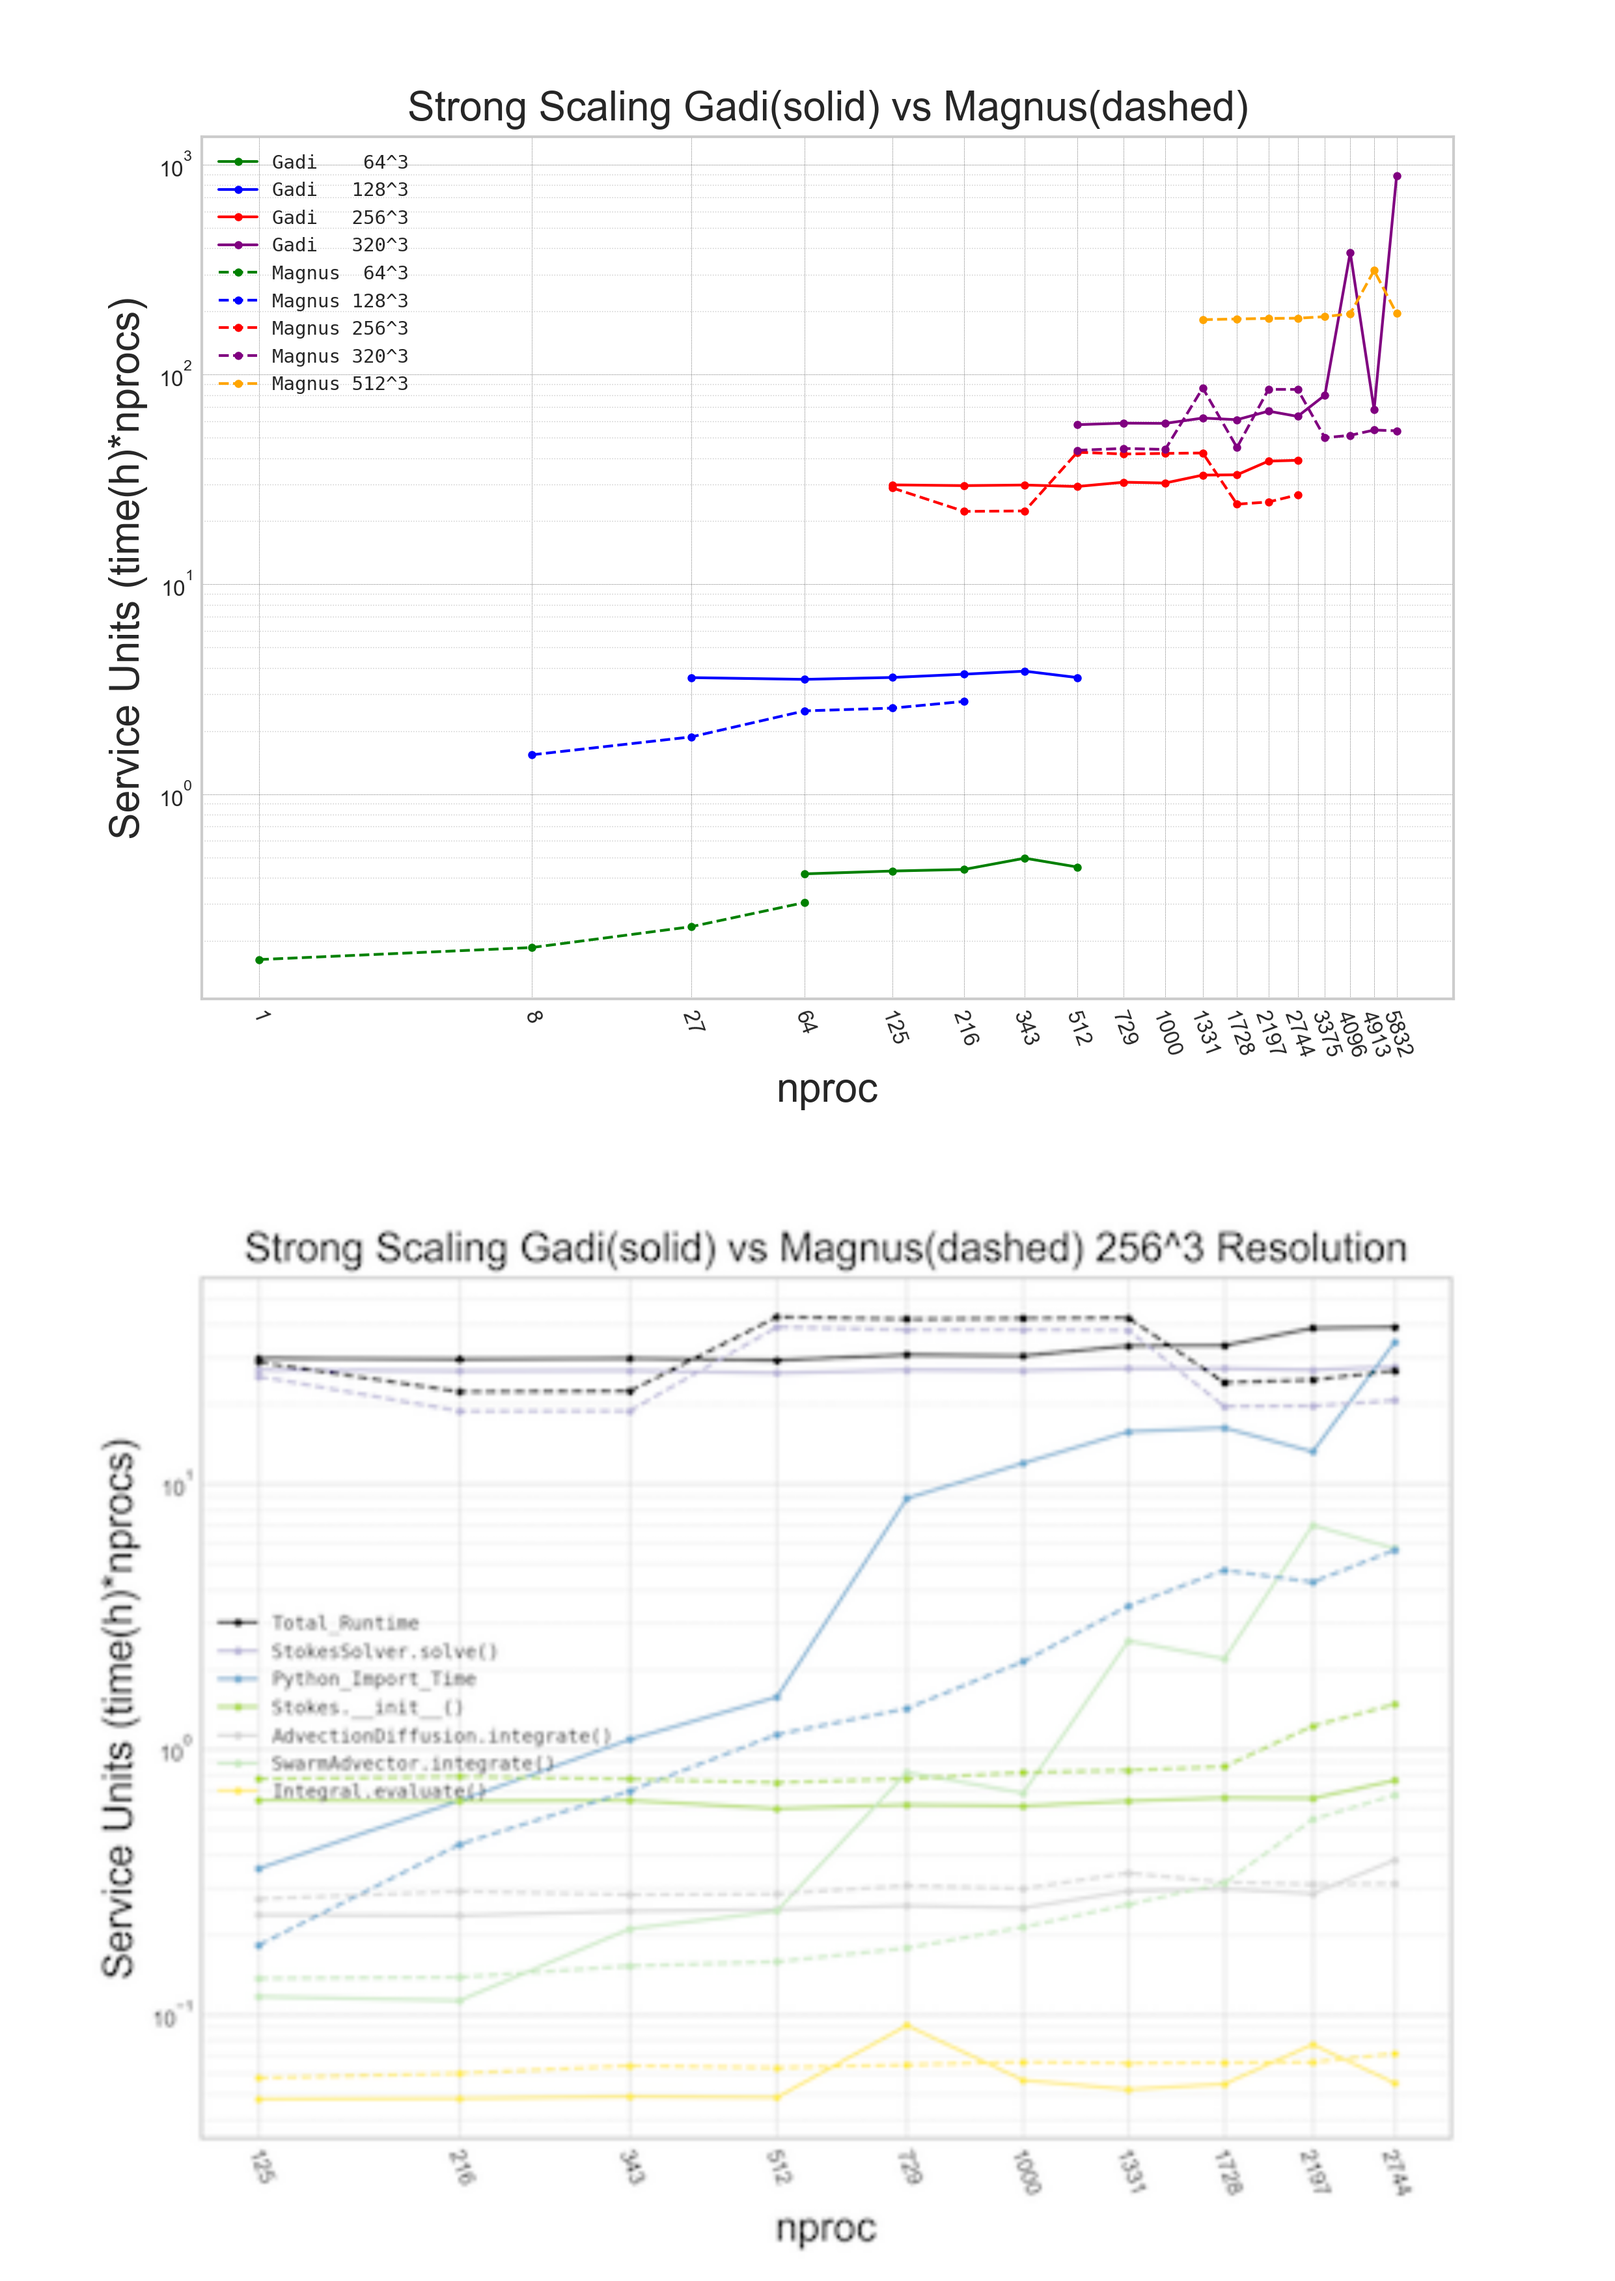
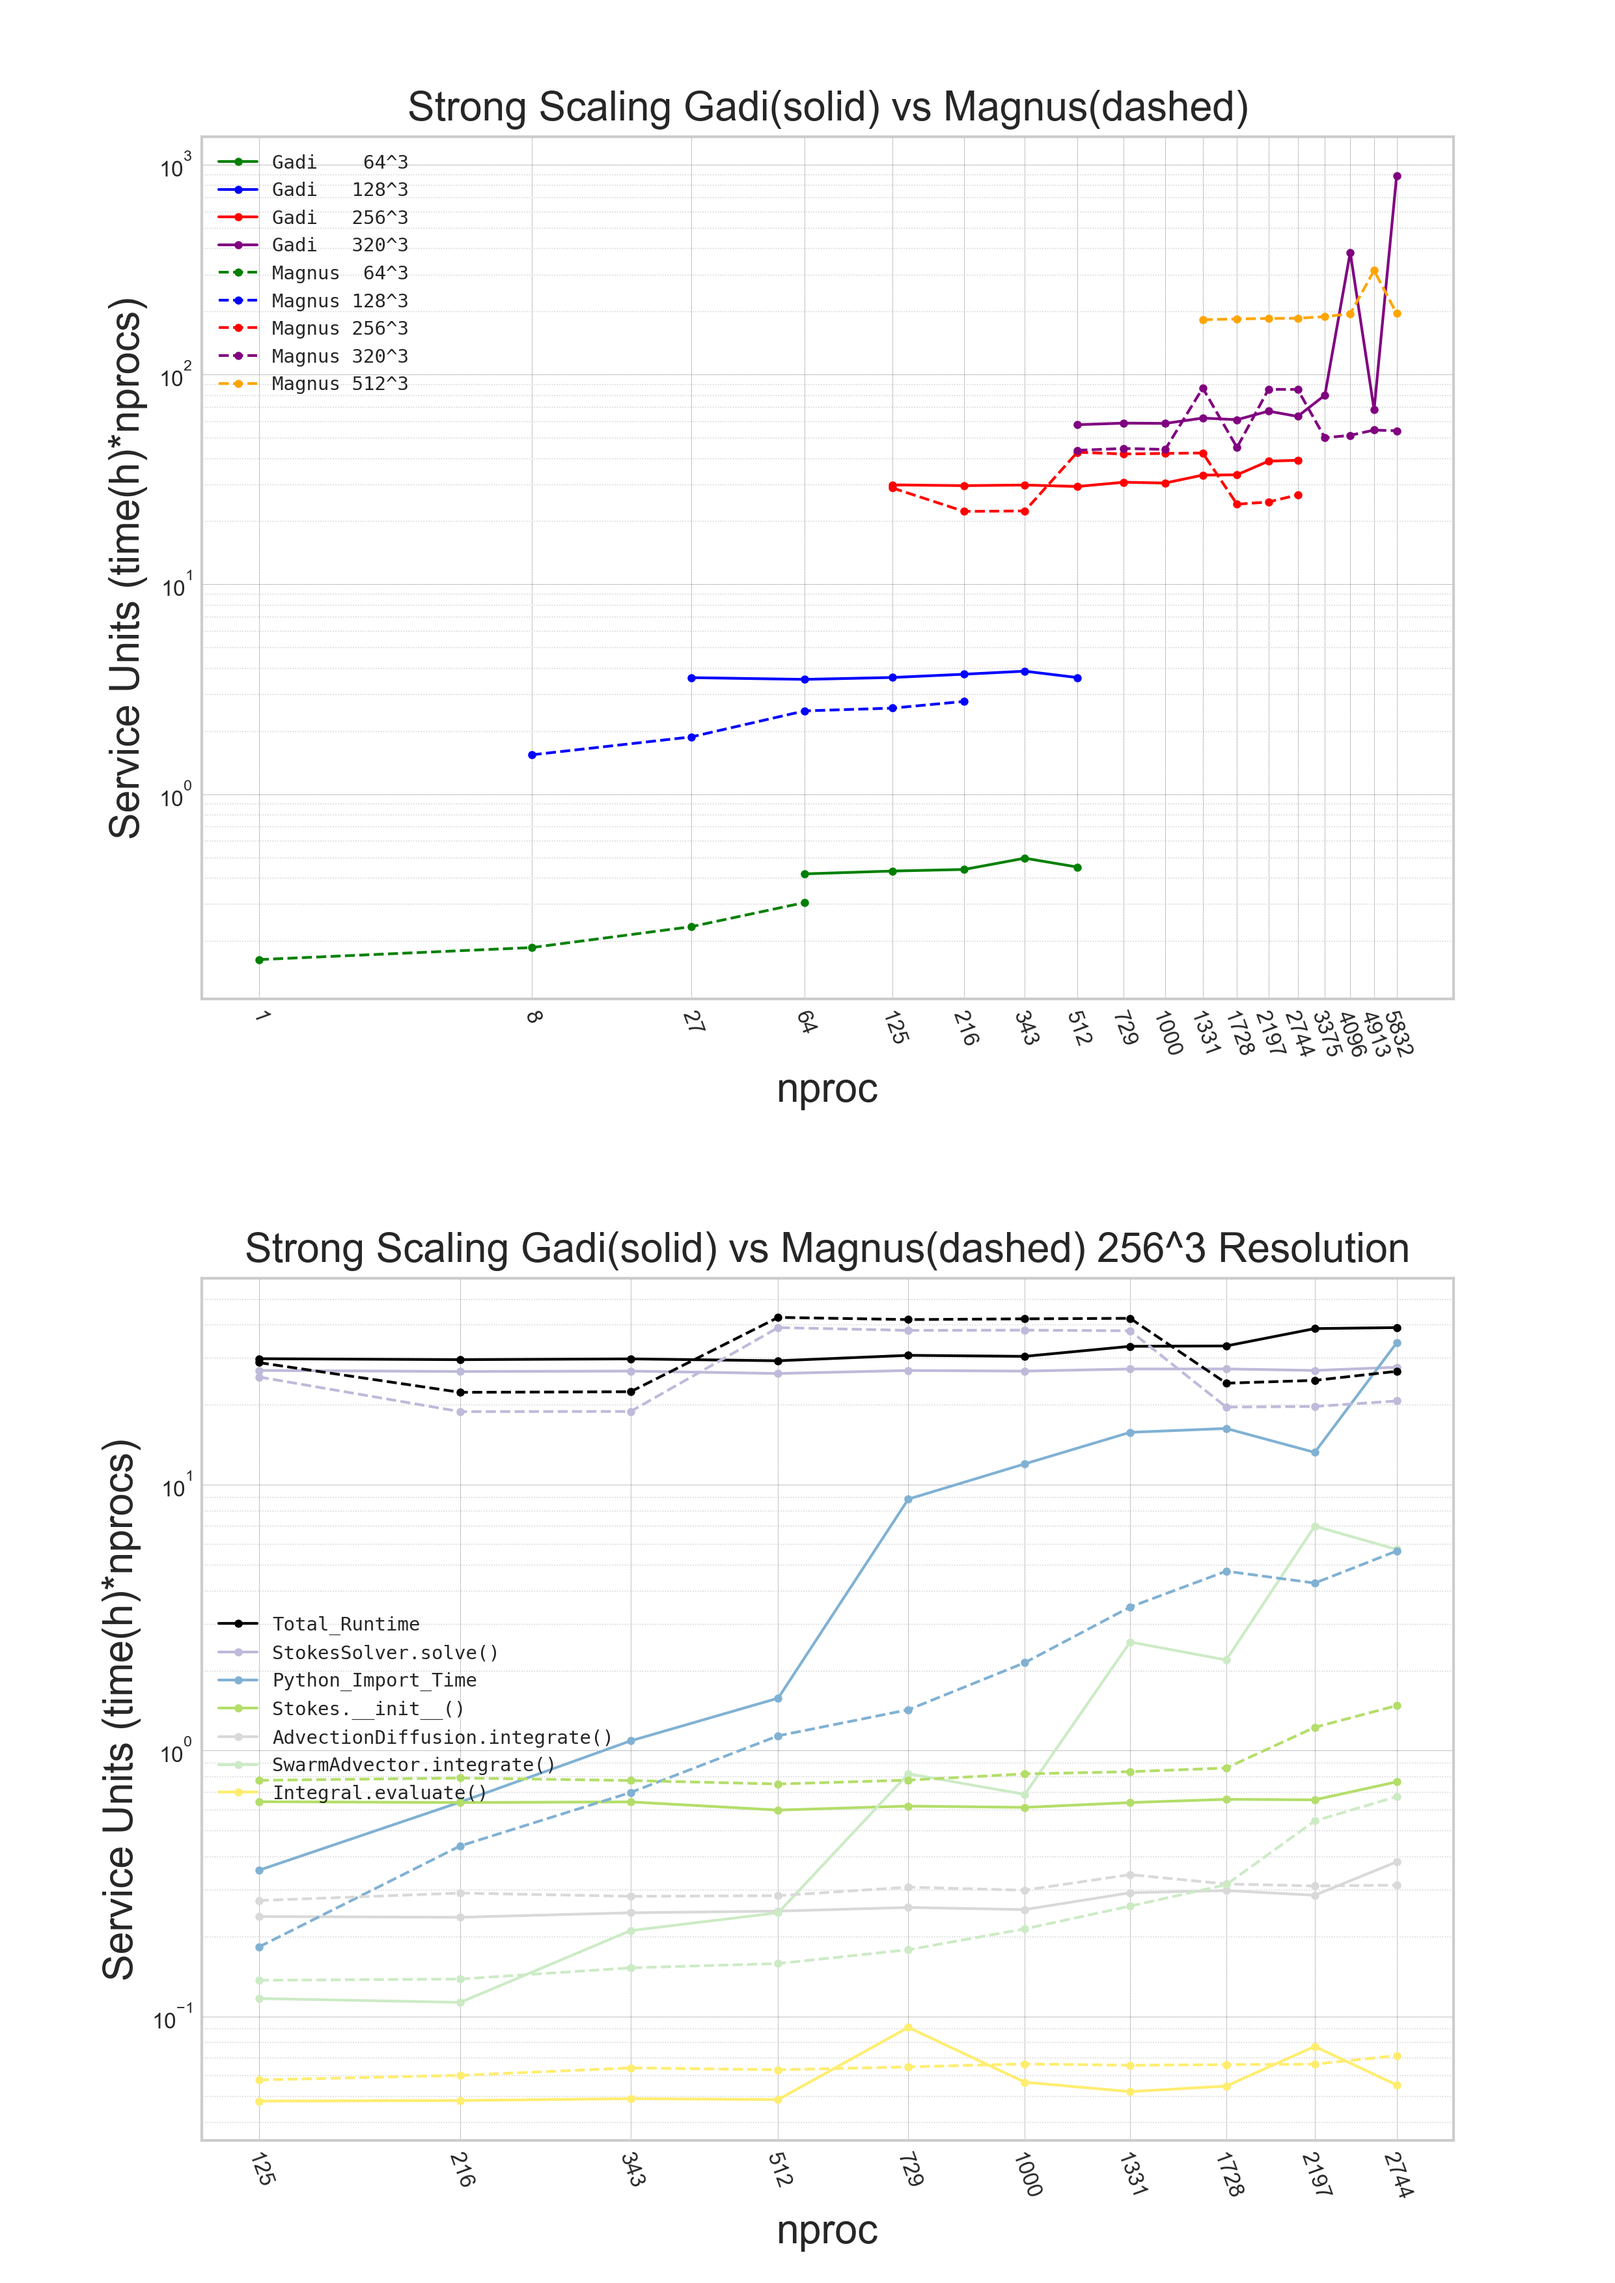
update scaling figs with higher res. + add Andres subduction section to Comp

diff --git a/Jupyterbook/2022/2022.Comp.md b/Jupyterbook/2022/2022.Comp.md
@@ -77,8 +77,6 @@ These results all scripts used to run and analyse the results are stored here: h
 
 
 
-
-
 ## Compute justification - overview
 
 Sed ut perspiciatis unde omnis iste natus error sit voluptatem accusantium doloremque laudantium, totam rem aperiam, eaque ipsa quae ab illo inventore veritatis et quasi architecto beatae vitae dicta sunt explicabo. Nemo enim ipsam voluptatem quia voluptas sit aspernatur aut odit aut fugit, sed quia consequuntur magni dolores eos qui ratione voluptatem sequi nesciunt. Neque porro quisquam est, qui dolorem ipsum quia dolor sit amet, consectetur, adipisci velit, sed quia non numquam eius modi tempora incidunt ut labore et dolore magnam aliquam quaerat voluptatem. Ut enim ad minima veniam, quis nostrum exercitationem ullam corporis suscipit laboriosam, nisi ut aliquid ex ea commodi consequatur? Quis autem vel eum iure reprehenderit qui in ea voluptate velit esse quam nihil molestiae consequatur, vel illum qui dolorem eum fugiat quo voluptas nulla paria
@@ -87,6 +85,26 @@ Sed ut perspiciatis unde omnis iste natus error sit voluptatem accusantium dolor
 ## Typical job configurations
 
 Sed ut perspiciatis unde omnis iste natus error sit voluptatem accusantium doloremque laudantium, totam rem aperiam, eaque ipsa quae ab illo inventore veritatis et quasi architecto beatae vitae dicta sunt explicabo. Nemo enim ipsam voluptatem quia voluptas sit aspernatur aut odit aut fugit, sed quia consequuntur magni dolores eos qui ratione voluptatem sequi nesciunt. Neque porro quisquam est, qui dolorem ipsum quia dolor sit amet, consectetur, adipisci velit, sed quia non numquam eius modi tempora incidunt ut labore et dolore magnam aliquam quaerat voluptatem. Ut enim ad minima veniam, quis nostrum exercitationem ullam corporis suscipit laboriosam, nisi ut aliquid ex ea commodi consequatur? Quis autem vel eum iure reprehenderit qui in ea voluptate velit esse quam nihil molestiae consequatur, vel illum qui dolorem eum fugiat quo voluptas nulla paria
+
+
+
+```{list-table}
+:header-rows: 1
+
+* -
+  - Wall times
+  - nodes/cores
+  - data dependencies
+* - __2d Models__
+  - 200
+  - 48
+  - Na
+* - __3d models__
+  - 200
+  - 48
+  - Na
+```
+
 
 
 ## Storage requirements
@@ -107,6 +125,9 @@ Top:  shows the effect of running the same amount of work (elements count in the
 
 
 ## SU budget for each request
+%include major steps in the project workflow
+%key Methods
+%SU requirements for each step
 
 ### Underworld suite development:
 
@@ -118,15 +139,8 @@ The Underworld and Quagmire codes are a community effort that benefits from all 
 
 
 
-### Subduction Zone Simulation
 
-This builds upon recent work on slab dynamics and stress distribution / seismicity ({cite}`sandifordImprovingSubductionInterface2019, sandifordGeometricControlsFlat2019,carluccioImpactVeryWeak2019`) that was published recently and for which all model files are openly available. These have an expected requirement of 500-750 kSU / quarter in line with recent usage. The work in the coming year is to look at 3D effects on topography and deformation in the over-riding plate which will require a further 500-750 kSU/quarter.
-
-Sed ut perspiciatis unde omnis iste natus error sit voluptatem accusantium doloremque laudantium, totam rem aperiam, eaque ipsa quae ab illo inventore veritatis et quasi architecto beatae vitae dicta sunt explicabo. Nemo enim ipsam voluptatem quia voluptas sit aspernatur aut odit aut fugit, sed quia consequuntur magni dolores eos qui ratione voluptatem sequi nesciunt. Neque porro quisquam est, qui dolorem ipsum quia dolor sit amet, consectetur, adipisci velit, sed quia non numquam eius modi tempora incidunt ut labore et dolore magnam aliquam quaerat voluptatem. Ut enim ad minima veniam, quis nostrum exercitationem ullam corporis suscipit laboriosam, nisi ut aliquid ex ea commodi consequatur? Quis autem vel eum iure reprehenderit qui in ea voluptate velit esse quam nihil molestiae consequatur, vel illum qui dolorem eum fugiat quo voluptas nulla pariatur
-
-
-
-### Congested Subduction / Continental Deformation
+### Congested Subduction / Continental Deformation (Theme 1 & 2)
 
 Large-scale models have been used to understand how mantle flow and plate motions produce identifiable signatures in the continental geological record {cite}`yangContrastedEastAsia2019`. We propose to extend this work with high resolution studies of Alaska and New Zealand in order to understand the response of the continental lithosphere to boundary forces and looking at three dimensional deformation patterns with localisation requiring very high resolution. Together we estimate 150-250kSU/q for this component of the work plan.
 
@@ -134,7 +148,7 @@ Sed ut perspiciatis unde omnis iste natus error sit voluptatem accusantium dolor
 
 
 
-### Destroying Craton
+### Destroying Craton (Theme 1)
 
 {cite}`cooperStructuralEvolutionDeep2017` concluded that destruction of cratonic lithosphere can be directed and magnified by both the cratonic shape and adjacent subduction using 3D instantaneous numerical regional scale models. We proposed here to understand the time dependent nature of the interaction between the stable, long-lined cratonic lithosphere and transient, highly deforming active subduction zones.
 
@@ -142,15 +156,21 @@ Sed ut perspiciatis unde omnis iste natus error sit voluptatem accusantium dolor
 
 We have tested 2D models (Fig. 1), and found reasonable results.  We plan 3D models of such implementation in Underworld for the next year 2022. As the short-term coseismic slip simulation requires extremely high mesh resolutions (<100m; the long-term 3D model generally only needs <3000m in mesh resolution), we thus apply for at least 250 ksu per season for 3D simulations like this.
 
-### Andres Subduction section
+### Obliquity in the evolution of collisional margins (Theme 1 & 2)
+
+The main purpose of our 3D numerical simulations is to simulate how oblique arc-continent collision affects the collision style, the lithospheric-mantle dynamics, and the associated strain-stress evolution in the continental plate. The typical dimension of our 3D Underworld models is 6000 x 800 x 3000 km mapped over a computational grid of 256x96x96 elements. Thus, our models run at a spatial resolution of 23.4 x 8.3 x 31.2 km and include ~1.0 billion tracers. In order to simulate all stages of oblique arc-continent collision we need to run each experiment more than 500 calculation steps in order to achieve 30 My (million years) of history. We need to run multiple simulations using different obliquities as we are interested in making a sensitivity test of the impact of the angle of collision parameter in the evolution of oblique arc-continent collision.
+
+
+### Subduction Zone Simulation (Theme 4)
+
+This builds upon recent work on slab dynamics and stress distribution / seismicity ({cite}`sandifordImprovingSubductionInterface2019, sandifordGeometricControlsFlat2019,carluccioImpactVeryWeak2019`) that was published recently and for which all model files are openly available. These have an expected requirement of 500-750 kSU / quarter in line with recent usage. The work in the coming year is to look at 3D effects on topography and deformation in the over-riding plate which will require a further 500-750 kSU/quarter.
 
 Sed ut perspiciatis unde omnis iste natus error sit voluptatem accusantium doloremque laudantium, totam rem aperiam, eaque ipsa quae ab illo inventore veritatis et quasi architecto beatae vitae dicta sunt explicabo. Nemo enim ipsam voluptatem quia voluptas sit aspernatur aut odit aut fugit, sed quia consequuntur magni dolores eos qui ratione voluptatem sequi nesciunt. Neque porro quisquam est, qui dolorem ipsum quia dolor sit amet, consectetur, adipisci velit, sed quia non numquam eius modi tempora incidunt ut labore et dolore magnam aliquam quaerat voluptatem. Ut enim ad minima veniam, quis nostrum exercitationem ullam corporis suscipit laboriosam, nisi ut aliquid ex ea commodi consequatur? Quis autem vel eum iure reprehenderit qui in ea voluptate velit esse quam nihil molestiae consequatur, vel illum qui dolorem eum fugiat quo voluptas nulla pariatur
 
-Sed ut perspiciatis unde omnis iste natus error sit voluptatem accusantium doloremque laudantium, totam rem aperiam, eaque ipsa quae ab illo inventore veritatis et quasi architecto beatae vitae dicta sunt explicabo. Nemo enim ipsam voluptatem quia voluptas sit aspernatur aut odit aut fugit, sed quia consequuntur magni dolores eos qui ratione voluptatem sequi nesciunt. Neque porro quisquam est, qui dolorem ipsum quia dolor sit amet, consectetur, adipisci velit, sed quia non numquam eius modi tempora incidunt ut labore et dolore magnam aliquam quaerat voluptatem. Ut enim ad minima veniam, quis nostrum exercitationem ullam corporis suscipit laboriosam, nisi ut aliquid ex ea commodi consequatur? Quis autem vel eum iure reprehenderit qui in ea voluptate velit esse quam nihil molestiae consequatur, vel illum qui dolorem eum fugiat quo voluptas nulla pariatur
 
 
 
-### Groundwater
+### Groundwater (Theme 3)
 
 Sed ut perspiciatis unde omnis iste natus error sit voluptatem accusantium doloremque laudantium, totam rem aperiam, eaque ipsa quae ab illo inventore veritatis et quasi architecto beatae vitae dicta sunt explicabo. Nemo enim ipsam voluptatem quia voluptas sit aspernatur aut odit aut fugit, sed quia consequuntur magni dolores eos qui ratione voluptatem sequi nesciunt. Neque porro quisquam est, qui dolorem ipsum quia dolor sit amet, consectetur, adipisci velit, sed quia non numquam eius modi tempora incidunt ut labore et dolore magnam aliquam quaerat voluptatem. Ut enim ad minima veniam, quis nostrum exercitationem ullam corporis suscipit laboriosam, nisi ut aliquid ex ea commodi consequatur? Quis autem vel eum iure reprehenderit qui in ea voluptate velit esse quam nihil molestiae consequatur, vel illum qui dolorem eum fugiat quo voluptas nulla pariatur
 
